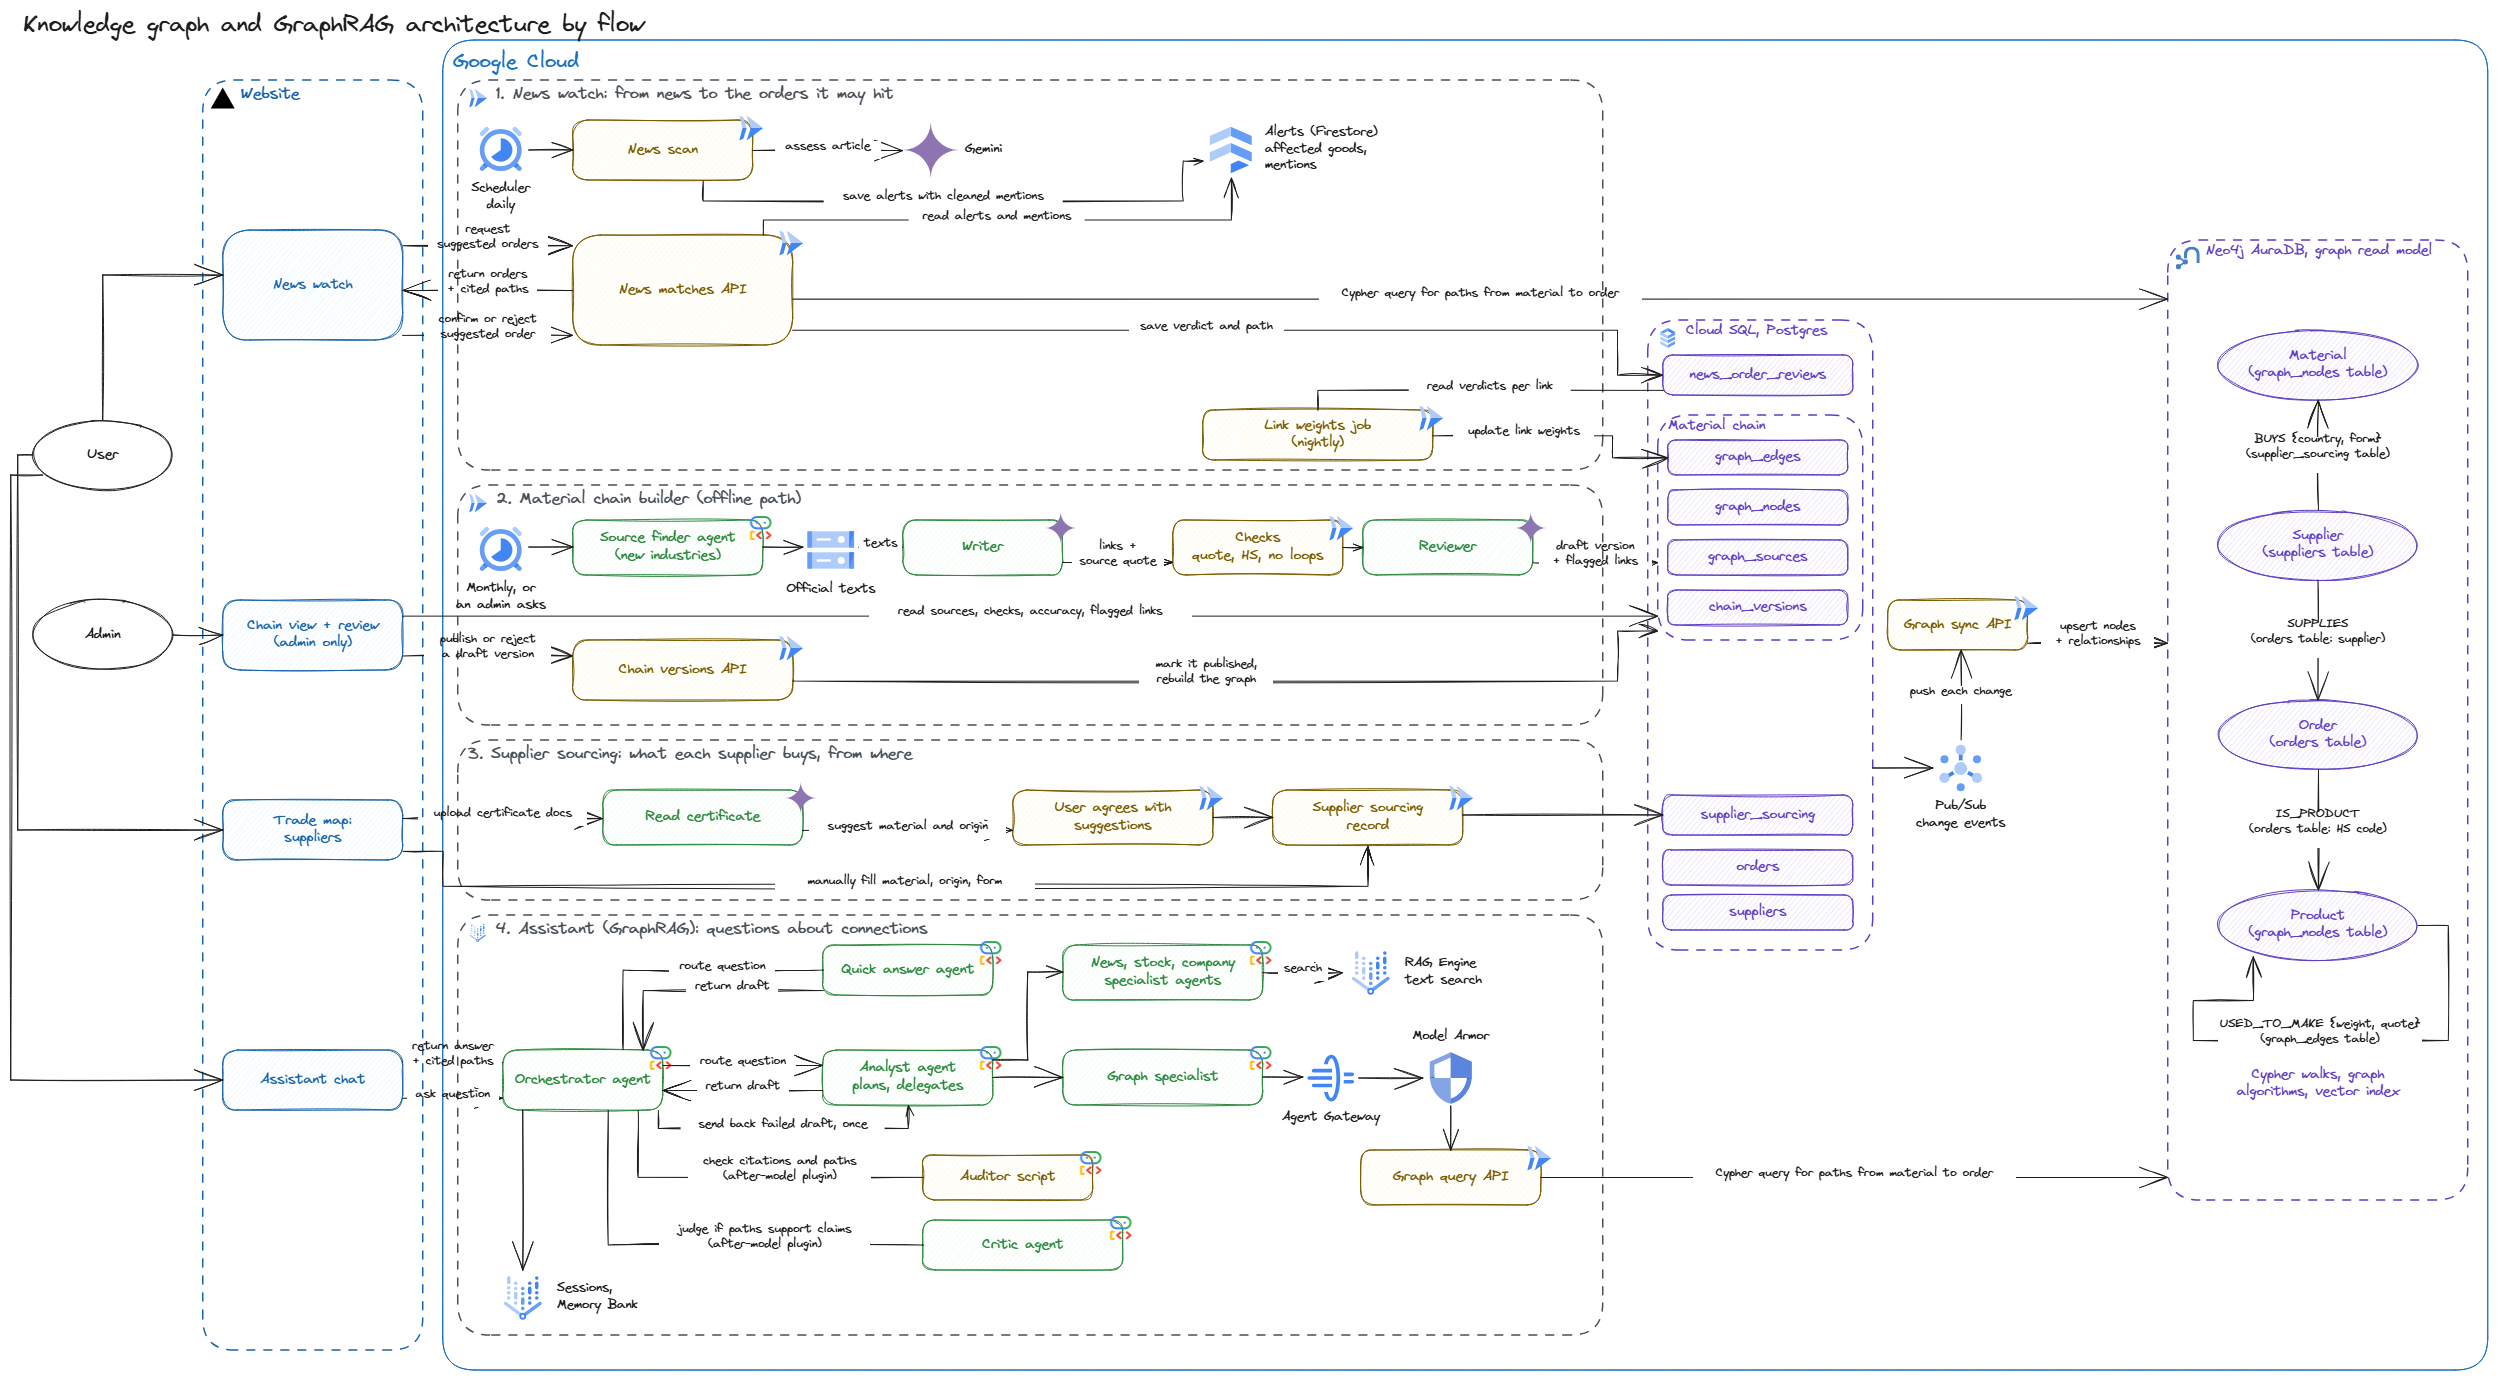
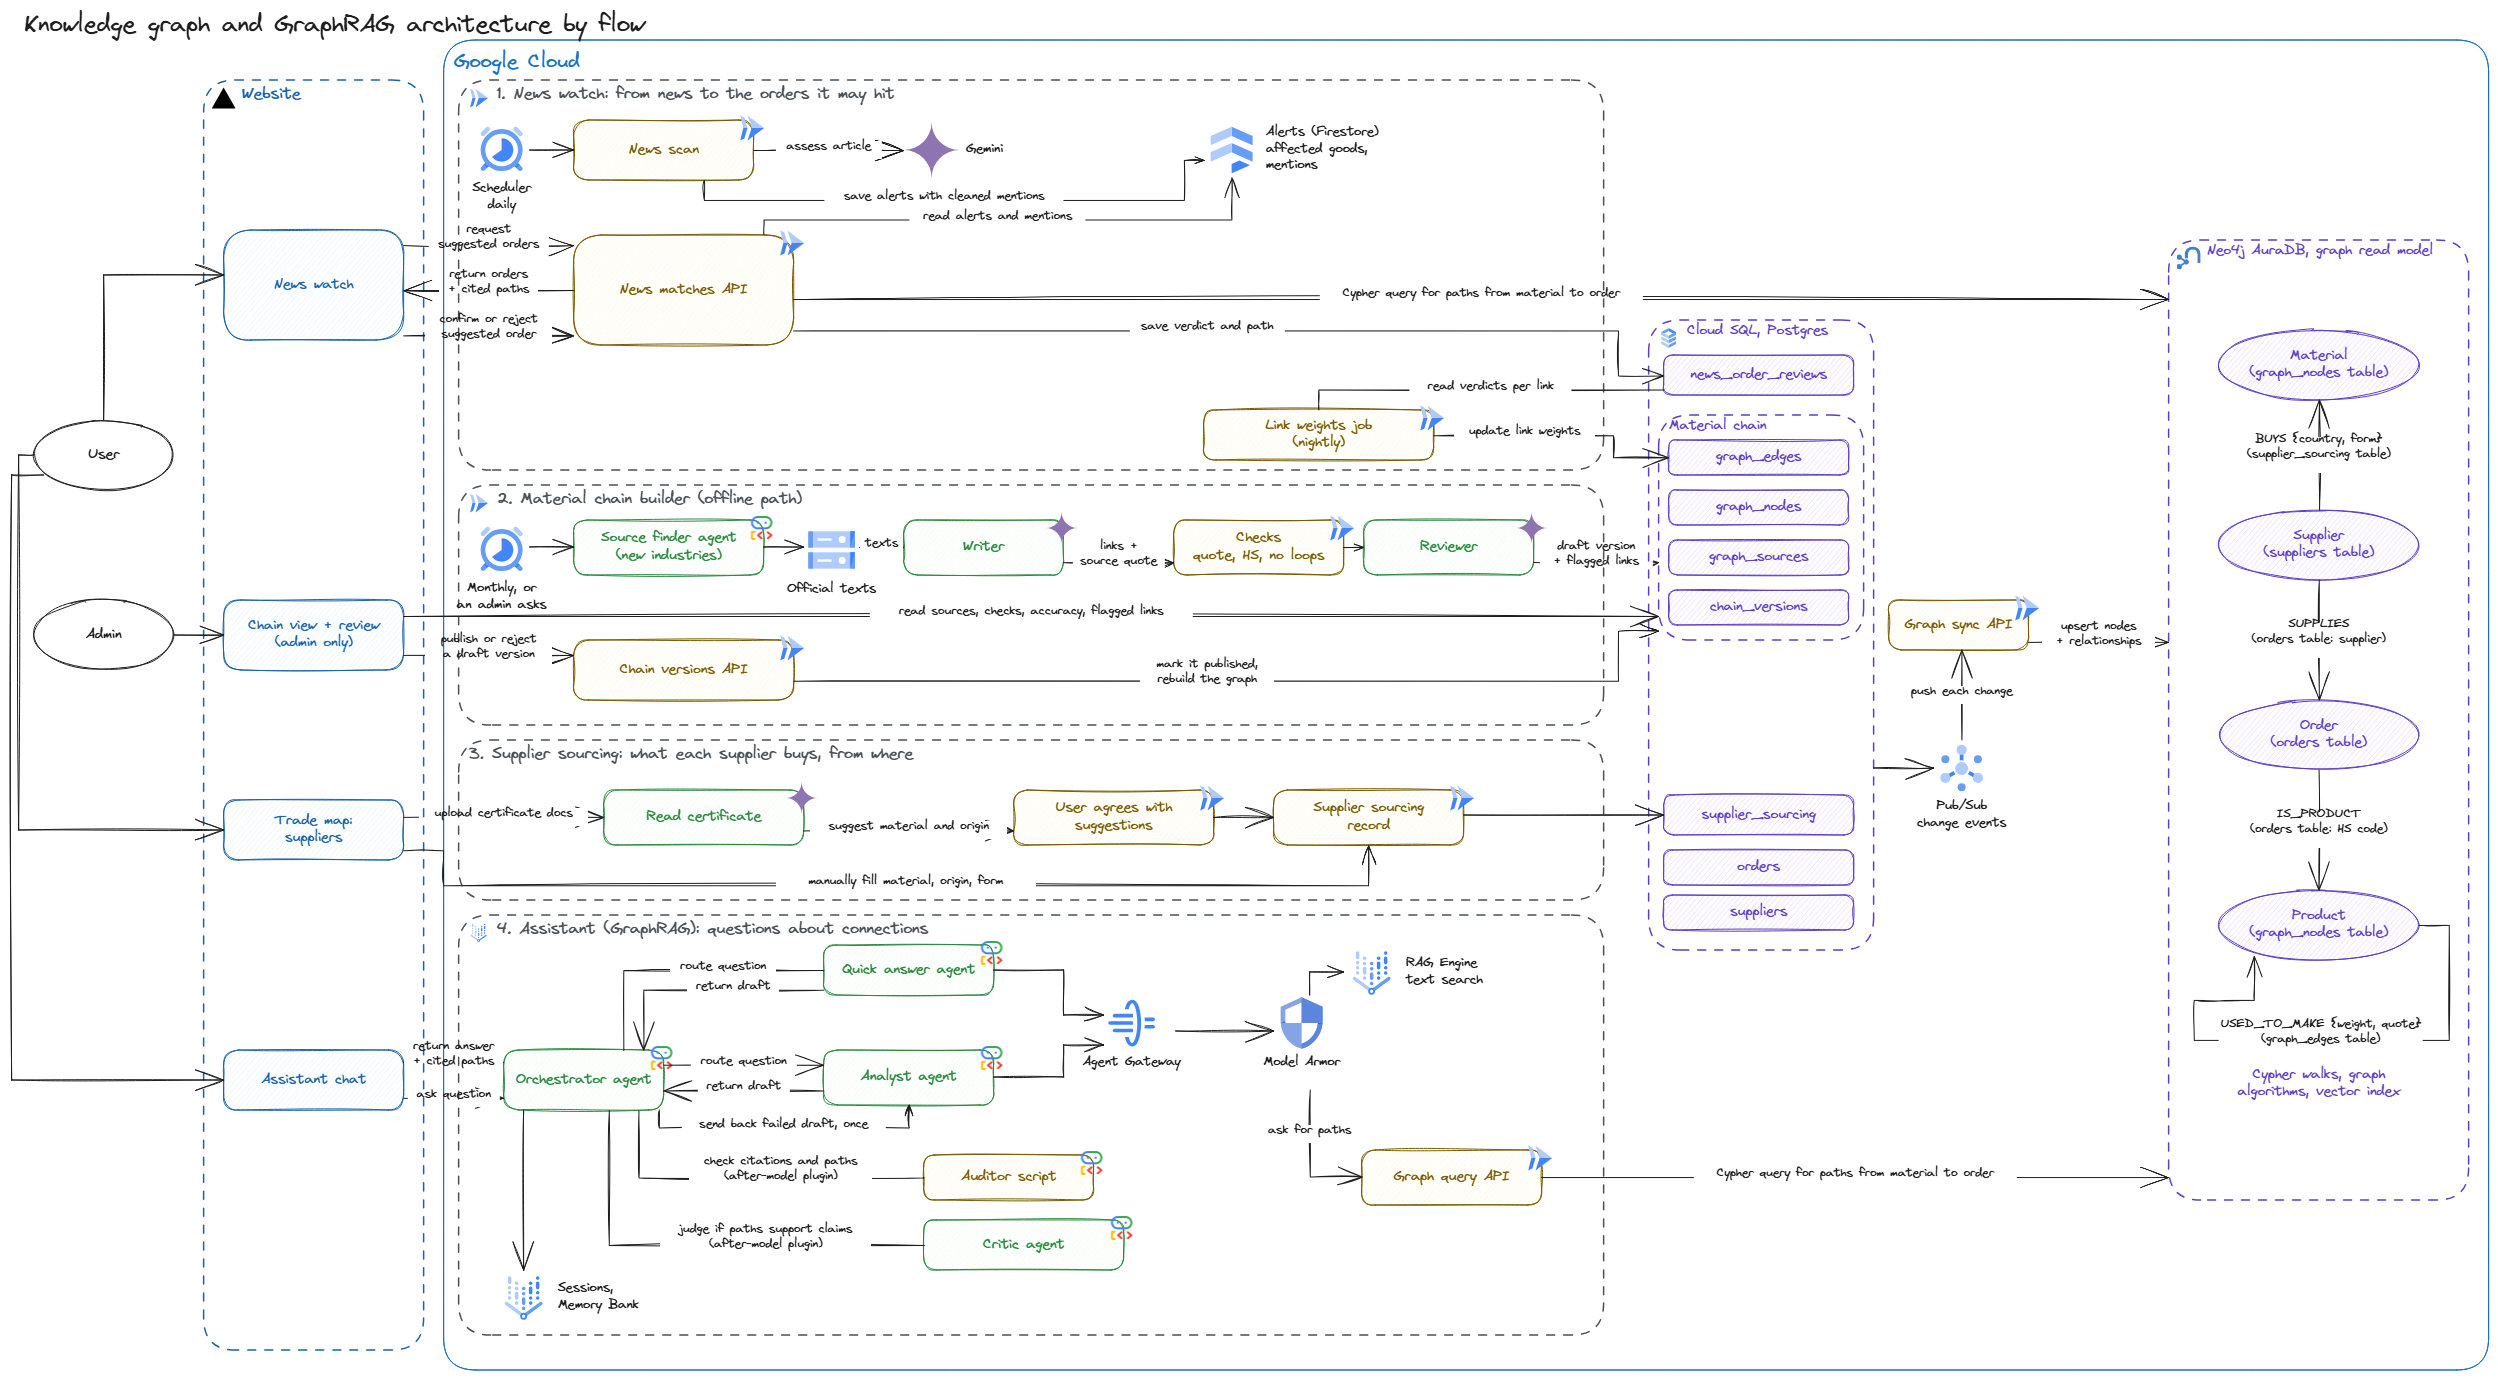
README: keep the assistant and knowledge graph sections high level
The assistant: one mention of each check and of Memory Bank, the questions link under the first
bullet. The knowledge graph: four short bullets, one line per architecture lane, and a link to
backend/app/knowledge_graph/README.md for the details. The architecture image drops the specialist
agents (removed 23 Nov 2026): both answering agents call their tools through Agent Gateway.

diff --git a/README.md b/README.md
@@ -84,26 +84,20 @@ trade map, News watch and the assistant with the knowledge graph. Please don't c
 ### 💬 The assistant
 
 - Opens from every screen: ask about your orders, rules, news, stock, or how to use the app.
-- **Ask about connections:** "what if Vietnam restricts acacia log exports?" or "which orders depend on
-  acacia?" The assistant walks the knowledge graph and names each order with the path that reaches it
-  (**GraphRAG**).
-- Every fact carries a **numbered citation**; an auditor checks citations and figures, and a critic
-  checks that each connection it claims matches its path, before the answer is shown.
-- **Audit trail:** each answer's steps, the agent behind each one, the tools called, the evidence and
-  the checks, live and saved.
-- **Memory:** remembers a signed-in user's preferences and work; Account › What the assistant remembers
-  lists them and forgets any on request.
-- **How it works:** a team of agents built with **Google ADK** on **Agent Platform's Agent Runtime**.
-  A router sends each question to a quick-answer agent or an analyst; they call read-only tools
-  (orders, playbook, news, stock, **RAG Engine** search, the knowledge graph); an auditor and a critic
-  check the draft. **Sessions** and **Memory Bank** keep context, and the agents run under their own
-  **Agent Identity** through **Agent Gateway** with **Model Armor**. Details:
-  [docs/AGENT_HARNESS.md](docs/AGENT_HARNESS.md); how to use it: [docs/AI_GUIDE.md](docs/AI_GUIDE.md).
-- **Gemini outside the chat**, always with code checking its answer before it's saved: drafting
-  requirements, reading certificates, assessing news, writing solutions and supplier emails, reading
-  what-ifs and building the material chain.
-- **What to ask:** [docs/ASSISTANT_QUESTIONS.md](docs/ASSISTANT_QUESTIONS.md) lists tested questions
-  by use case: orders, missing documents, suppliers, connections, what-ifs, the playbook, news and more.
+  [Questions to try](docs/ASSISTANT_QUESTIONS.md), by use case.
+- **Connections (GraphRAG):** "what if Vietnam restricts acacia log exports?" The assistant walks the
+  knowledge graph and names each order with the path that reaches it.
+- **Checked answers:** every fact carries a **numbered citation**. An auditor checks citations and
+  figures, and a critic checks each claimed connection against its path; a failing draft is redone once.
+- **Audit trail:** each answer's steps, the agent and tools behind them, and the checks, live and saved.
+- **Memory:** remembers a signed-in user's preferences (**Memory Bank**); Account › What the assistant
+  remembers lists them and forgets any on request.
+- **How it works:** **Google ADK** agents on **Agent Platform's Agent Runtime**. A router sends each
+  question to a quick-answer agent or an analyst, which call read-only tools (orders, playbook, news,
+  stock, **RAG Engine** search, the knowledge graph) through **Agent Gateway** with **Model Armor**.
+  More in [docs/AI_GUIDE.md](docs/AI_GUIDE.md) and [docs/AGENT_HARNESS.md](docs/AGENT_HARNESS.md).
+- **Beyond the chat**, Gemini drafts requirements, reads certificates, assesses news, writes solutions
+  and supplier emails, and builds the material chain, with code checking each answer before it's saved.
 
 ### 👥 Team and accounts
 
@@ -119,80 +113,37 @@ trade map, News watch and the assistant with the knowledge graph. Please don't c
 News rarely names your order. A story about **acacia logs from Vietnam** never mentions plywood or
 PO-2291, yet the order depends on it. The knowledge graph connects them.
 
-- **Nodes:** materials (acacia, rubberwood), products (each an HS heading: logs, veneer, plywood,
-  furniture), suppliers and orders.
-- **Links:** a product is *used to make* another (each link quoting an official text), a supplier
-  *buys* a material from a country in a form, a supplier *supplies* an order, and an order *is* a
-  product through its HS code.
-
 ```
 Binh Phu Wood ──BUYS (Vietnam, logs)──► acacia
 logs ──USED_TO_MAKE──► veneer ──USED_TO_MAKE──► plywood
 PO-2291 ──IS_PRODUCT──► plywood        Binh Phu Wood ──SUPPLIES──► PO-2291
 ```
 
-The material chain covers **every commodity in the EU deforestation rule** (wood, cocoa, coffee, oil
-palm, soya, rubber, cattle). It is built offline by a **Gemini writer** that proposes links with quotes
-from official texts, **code checks** on each quote and HS code, and a **Gemini reviewer** that flags
-doubtful links for a person.
+- **What's in it:** materials, products (HS headings), suppliers and orders. Every *used to make* link
+  quotes an official text, covering every commodity in the EU deforestation rule.
+- **How it's built:** offline, a **Gemini writer** proposes links, code checks each quote and HS code,
+  and a **Gemini reviewer** flags doubtful ones; a chain admin publishes each new version.
+- **Where it lives:** **Cloud SQL Postgres** is the source of truth; **Neo4j AuraDB** holds a copy that
+  the walk queries with **Cypher**.
+- **How it learns:** people confirm or reject the orders it suggests, and a nightly job turns those
+  verdicts into link weights.
 
-**How the graph is used:**
-
-- **Neo4j AuraDB** holds the graph as a read model: products, materials and chain links with their
-  weights, and each company's suppliers (*buys*) and orders (*supplies*, *is*). **Cloud SQL Postgres**
-  stays the source of truth.
-- **The walk** runs as a **Cypher** query on Neo4j while its copy matches Postgres (a fingerprint of
-  the chain), and falls back to a recursive SQL query otherwise. The query reports where it walked.
-- **Ranking:** between paths of equal length, the walk prefers fewer doubted links, then fewer less
-  common routes, then links with higher weights.
-- **Learning from verdicts:** a nightly job counts every company's confirms and rejects per chain link
-  into a weight. A link a company keeps rejecting is doubted for that company straight away.
-- **Chain versions:** each industry's chain is versioned in Postgres. A new build arrives as a draft
-  with what it changes and what the pipeline flagged; a **chain admin** reviews it on the Material
-  chain page and publishes or rejects it. Publishing rebuilds the graph.
+📖 Details (data model, the walk, verdicts, the builder, Neo4j):
+[backend/app/knowledge_graph/README.md](backend/app/knowledge_graph/README.md).
 
 ### 🚀 Architecture
 
 ![Knowledge graph and GraphRAG architecture by flow](docs/images/knowledge-graph-architecture.png)
 
-#### 🩵 1. News watch
-
-- **Cloud Scheduler** starts the news scan on **Cloud Run**; Gemini assesses each article and the alert
-  is saved in **Firestore**.
-- The **News matches API** reads the alerts, walks the graph on **Neo4j** for the orders each one
-  reaches, returns them with their paths, and saves each verdict in Postgres.
-- The **link weights job** (a Cloud Run job, started by Cloud Scheduler every night) turns verdicts
-  into link weights.
-
-#### 📘 2. Material chain builder (offline)
-
-- The Gemini writer, code checks and Gemini reviewer turn official texts into links, each quoting its
-  source.
-- The result is saved as a draft **chain version**; a chain admin reviews the changes and flags, and
-  publishes or rejects it.
-- A **source finder agent** that collects new official texts into Cloud Storage is the next addition.
-
-#### 🏭 3. Supplier sourcing
-
-- An uploaded certificate is read by Gemini, the user confirms the suggestions, and they're saved as
-  the supplier's sourcing: each one a *buys* link from the supplier to a material.
-
-#### 🧠 4. Assistant (GraphRAG)
-
-- The router sends a connection question to the analyst.
-- The analyst's `query_graph` call goes through **Agent Gateway** and **Model Armor** to the **Graph query API**
-  on Cloud Run, which reads what the question names (materials, countries, HS codes, markets), walks
-  the graph for the user's company with a **Cypher** query on **Neo4j AuraDB**, and returns each order
-  with its cited path and what it did and didn't recognise.
-- The answer cites each order's path and each link's official text. The **auditor** checks every
-  order named cites its path, and the **critic** checks the claims match the paths.
-
-#### 🗄 Data
-
-- **Cloud SQL Postgres** is the source of truth, one block per table.
-- After each change (the chain, or a company's suppliers, sourcing or orders), an event goes to
-  **Pub/Sub**; its push subscription calls the **graph sync** endpoint, which rewrites that part of
-  **Neo4j** from Postgres. Failed syncs are retried, and deploys and the nightly job run a full sync.
+1. **News watch:** the daily scan saves alerts; the News matches API walks the graph for the orders
+   each alert reaches and keeps the user's verdicts.
+2. **Material chain builder (offline):** official texts become cited links, published as a reviewed
+   version.
+3. **Supplier sourcing:** Gemini reads an uploaded certificate, and what the user confirms becomes
+   the supplier's *buys* links.
+4. **Assistant (GraphRAG):** the agents ask the Graph query API for paths, through Agent Gateway and
+   Model Armor, and cite each order's path in the answer.
+5. **Data:** each change in Postgres goes through **Pub/Sub** to a sync endpoint that updates Neo4j.
 
 ---
 
